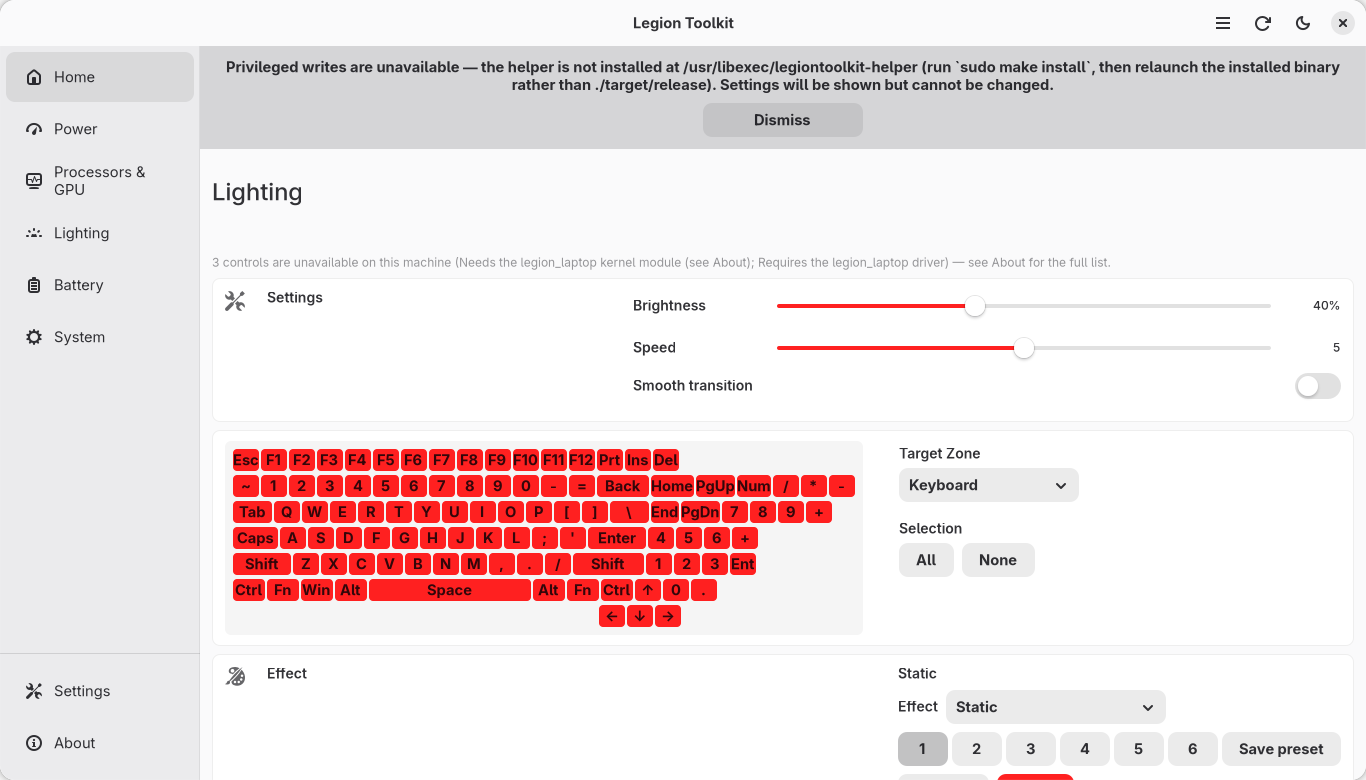
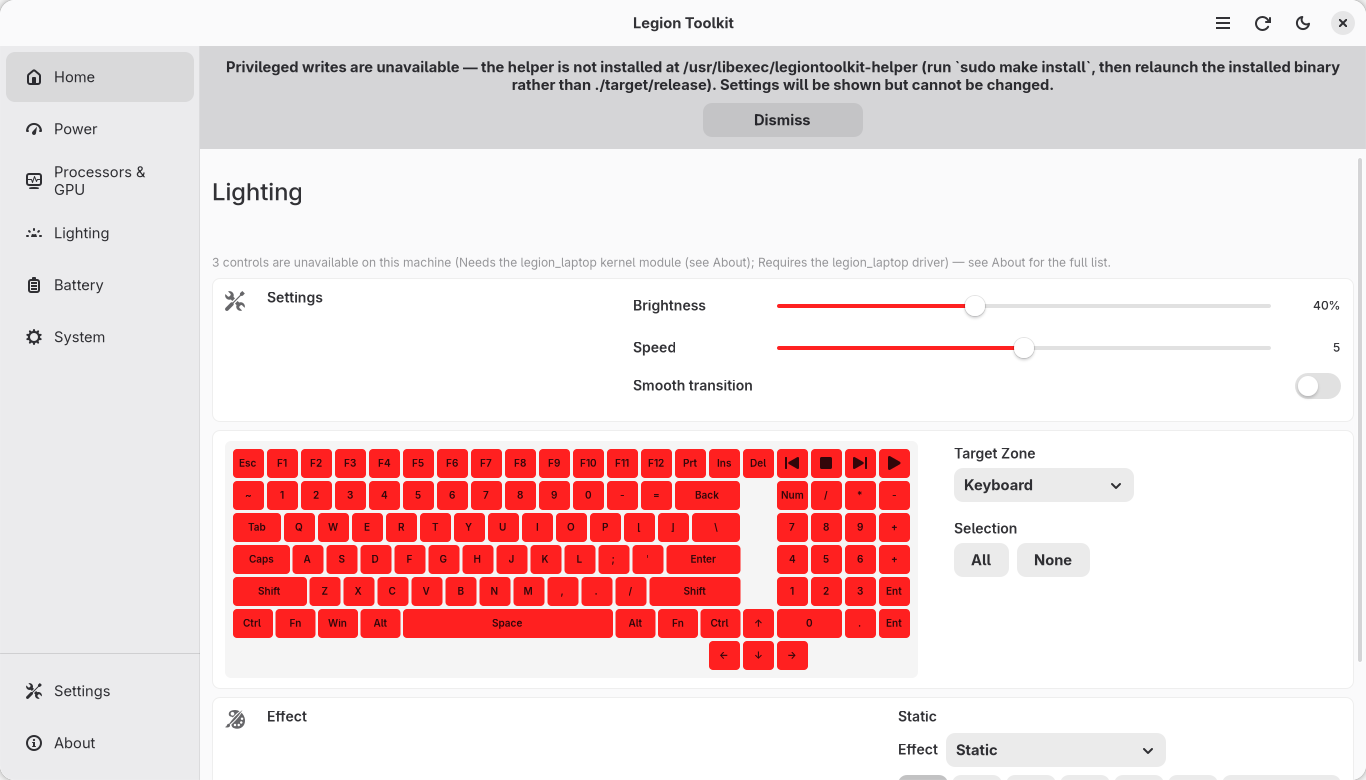
fix(lighting): lay the keyboard out on a fixed grid so it reads as one
The key rows were drawn as independent boxes, so each row's inter-key spacing
accumulated differently and the numeric keypad stair-stepped down the board.
Place every key at an absolute position instead, and size the layout so each
main block is exactly 15 units and the keypad always starts at 16 — the columns
now line up.

Follow the reference's keyboard more closely while here: a clean one-unit gap
between the main block and the keypad, the arrow keys in that gap, and the four
media keys above the keypad. Drop the Home/End/PgUp/PgDn cluster: the reference
laptop keyboard has no dedicated keys for them, and they crowded the gap.

diff --git a/src/rgb.rs b/src/rgb.rs
@@ -143,21 +143,29 @@ impl Effect {
 
 /// The physical keyboard, as rows of `(label, width in key units)`.
 ///
-/// A standard ANSI layout, following the reference's Keyboard Backlight page:
-/// the top row carries `Prt`/`Ins`/`Del`, a `Home`/`End`/`PgUp`/`PgDn`
-/// navigation cluster sits between the main block and the numeric keypad, and
-/// the arrow keys form an inverted-T under the right hand. Used only to draw the
-/// zone editor: it is the shape the user recognises, and it lets each zone be
-/// shown where it actually sits on the deck rather than as an abstract grid.
+/// A full ANSI layout, following the reference's Keyboard Backlight page: the
+/// top row carries `Prt`/`Ins`/`Del`, a clean one-unit gap separates the main
+/// block from the numeric keypad, and the arrow keys form an inverted-T in that
+/// gap under the right hand. Used only to draw the zone editor: it is the shape
+/// the user recognises, and it lets each zone be shown where it actually sits on
+/// the deck rather than as an abstract grid.
 ///
-/// A key whose label is empty is a **spacer**: a gap, not a key, used to line
-/// the short arrow row up under the rest of the keyboard.
+/// The layout is built so the keypad lands in the same columns on every row —
+/// that is what makes it read as a keyboard rather than a pile of keys. Every
+/// main-block row is exactly 15 units wide and the keypad always starts at 16,
+/// with a one-unit gap between them. A key whose label is empty is a **spacer**:
+/// a gap, not a key, that holds those columns open on the rows that do not reach
+/// them.
 ///
 /// The reference draws a 24-zone keyboard as 24 bars; drawing the whole
 /// keyboard and colouring each key by its zone is clearer, which is what we do.
+///
+/// A label beginning `icon:` names a symbolic icon to draw instead of text —
+/// used for the media keys on the function row, which have no short label.
 pub fn keyboard_rows() -> &'static [&'static [(&'static str, f64)]] {
     &[
-        // Function row, with the Print Screen / Insert / Delete group.
+        // Function row: Esc, F1..F12, Prt / Ins / Del, then the media keys
+        // sitting above the keypad. 20 units, matching the rows below.
         &[
             ("Esc", 1.0),
             ("F1", 1.0),
@@ -175,8 +183,12 @@ pub fn keyboard_rows() -> &'static [&'static [(&'static str, f64)]] {
             ("Prt", 1.0),
             ("Ins", 1.0),
             ("Del", 1.0),
+            ("icon:media-skip-backward-symbolic", 1.0),
+            ("icon:media-playback-stop-symbolic", 1.0),
+            ("icon:media-skip-forward-symbolic", 1.0),
+            ("icon:media-playback-start-symbolic", 1.0),
         ],
-        // Number row, the top of the navigation cluster, then the keypad top.
+        // Number row (15), gap (1), keypad top (4).
         &[
             ("~", 1.0),
             ("1", 1.0),
@@ -192,14 +204,13 @@ pub fn keyboard_rows() -> &'static [&'static [(&'static str, f64)]] {
             ("-", 1.0),
             ("=", 1.0),
             ("Back", 2.0),
-            ("Home", 1.0),
-            ("PgUp", 1.0),
+            ("", 1.0),
             ("Num", 1.0),
             ("/", 1.0),
             ("*", 1.0),
             ("-", 1.0),
         ],
-        // Tab row, the bottom of the navigation cluster, then keypad 7/8/9.
+        // Tab row (15), gap (1), keypad 7/8/9/+ (4).
         &[
             ("Tab", 1.5),
             ("Q", 1.0),
@@ -215,13 +226,13 @@ pub fn keyboard_rows() -> &'static [&'static [(&'static str, f64)]] {
             ("[", 1.0),
             ("]", 1.0),
             ("\\", 1.5),
-            ("End", 1.0),
-            ("PgDn", 1.0),
+            ("", 1.0),
             ("7", 1.0),
             ("8", 1.0),
             ("9", 1.0),
             ("+", 1.0),
         ],
+        // Caps row (15), gap (1), keypad 4/5/6/+ (4).
         &[
             ("Caps", 1.75),
             ("A", 1.0),
@@ -236,11 +247,13 @@ pub fn keyboard_rows() -> &'static [&'static [(&'static str, f64)]] {
             (";", 1.0),
             ("'", 1.0),
             ("Enter", 2.25),
+            ("", 1.0),
             ("4", 1.0),
             ("5", 1.0),
             ("6", 1.0),
             ("+", 1.0),
         ],
+        // Shift row (15), gap (1), keypad 1/2/3/Enter (4).
         &[
             ("Shift", 2.25),
             ("Z", 1.0),
@@ -254,12 +267,13 @@ pub fn keyboard_rows() -> &'static [&'static [(&'static str, f64)]] {
             (".", 1.0),
             ("/", 1.0),
             ("Shift", 2.75),
+            ("", 1.0),
             ("1", 1.0),
             ("2", 1.0),
             ("3", 1.0),
             ("Ent", 1.0),
         ],
-        // Bottom row, the up arrow, then the keypad's zero.
+        // Bottom row (15), the up arrow in the gap (1), then keypad 0 . Ent.
         &[
             ("Ctrl", 1.25),
             ("Fn", 1.25),
@@ -270,11 +284,11 @@ pub fn keyboard_rows() -> &'static [&'static [(&'static str, f64)]] {
             ("Fn", 1.25),
             ("Ctrl", 1.25),
             ("↑", 1.0),
-            ("0", 1.0),
+            ("0", 2.0),
             (".", 1.0),
+            ("Ent", 1.0),
         ],
-        // The arrow cluster's lower row, pushed right so ↓ sits under ↑. The
-        // leading spacer spans the keys that end above it in the row above.
+        // The arrow cluster's lower row, pushed right so ↓ sits under ↑.
         &[("", 14.0), ("←", 1.0), ("↓", 1.0), ("→", 1.0)],
     ]
 }

diff --git a/src/pages/mod.rs b/src/pages/mod.rs
@@ -1605,47 +1605,60 @@ fn rgb_section() -> Option<GtkBox> {
     let layout = GtkBox::new(Orientation::Horizontal, 24);
 
     // The controller addresses 24 regions rather than keys, so every key takes
-    // the colour of the region it lands in (see `rgb::zone_for_key`). Drawing a
-    // real keyboard is what makes the zones legible: you can see which keys a
-    // colour touches instead of counting abstract boxes.
-    let keyboard = gtk4::Grid::new();
+    // the colour of the region it lands in (see `rgb::zone_for_key`). Every key
+    // is placed at an absolute position: a row of boxes cannot keep the keypad's
+    // columns lined up, because each row's inter-key spacing accumulates
+    // differently. Absolute placement is what makes it read as a keyboard.
+    const KEY: f64 = 34.0;
+    const ROW_H: f64 = 32.0;
+    const GAP: f64 = 3.0;
+
+    let keyboard = gtk4::Fixed::new();
     keyboard.add_css_class("llt-keyboard");
-    keyboard.set_row_spacing(4);
-    keyboard.set_column_spacing(4);
     keyboard.set_halign(Align::Start);
     keyboard.set_valign(Align::Start);
 
+    let rows = legiontoolkit::rgb::keyboard_rows();
     let mut zone_keys: Vec<ZoneKey> = Vec::new();
-    for (row, keys) in legiontoolkit::rgb::keyboard_rows().iter().enumerate() {
-        let line = GtkBox::new(Orientation::Horizontal, 2);
-        line.set_halign(Align::Start);
+    for (row, keys) in rows.iter().enumerate() {
+        let mut x = 0.0;
         for (col, (label, width)) in keys.iter().enumerate() {
-            // An empty label is a spacer, not a key: the gap that lines the
-            // short arrow row up under the rest of the keyboard.
-            if label.is_empty() {
-                let gap = GtkBox::new(Orientation::Horizontal, 0);
-                gap.set_size_request((width * 26.0) as i32, 22);
-                line.append(&gap);
-                continue;
+            // An empty label is a spacer, not a key: it holds the columns open
+            // so the keypad lines up on every row.
+            if !label.is_empty() {
+                let zone = legiontoolkit::rgb::zone_for_key(row, col);
+                let button = match label.strip_prefix("icon:") {
+                    Some(icon) => gtk4::Button::from_icon_name(icon),
+                    None => gtk4::Button::with_label(label),
+                };
+                button.set_size_request(
+                    (width * KEY - GAP).round() as i32,
+                    (ROW_H - GAP).round() as i32,
+                );
+                button.set_focus_on_click(false);
+                let provider = gtk4::CssProvider::new();
+                provider.load_from_string(&key_colour_css(state.borrow().zones[zone]));
+                button.style_context().add_provider(&provider, 800);
+                keyboard.put(&button, x, row as f64 * ROW_H);
+                zone_keys.push(ZoneKey {
+                    row,
+                    col,
+                    zone,
+                    button,
+                    provider,
+                });
             }
-            let zone = legiontoolkit::rgb::zone_for_key(row, col);
-            let button = gtk4::Button::with_label(label);
-            button.set_size_request((width * 26.0) as i32, 22);
-            button.set_focus_on_click(false);
-            let provider = gtk4::CssProvider::new();
-            provider.load_from_string(&key_colour_css(state.borrow().zones[zone]));
-            button.style_context().add_provider(&provider, 800);
-            line.append(&button);
-            zone_keys.push(ZoneKey {
-                row,
-                col,
-                zone,
-                button,
-                provider,
-            });
+            x += width * KEY;
         }
-        keyboard.attach(&line, 0, row as i32, 1, 1);
     }
+    let width = rows
+        .iter()
+        .map(|keys| keys.iter().map(|(_, w)| *w).sum::<f64>())
+        .fold(0.0, f64::max);
+    keyboard.set_size_request(
+        (width * KEY).round() as i32,
+        (rows.len() as f64 * ROW_H).round() as i32,
+    );
     let zone_keys = Rc::new(zone_keys);
 
     // Picking a colour on a key applies it to every zone the current Target

diff --git a/src/design/mod.rs b/src/design/mod.rs
@@ -106,11 +106,17 @@ pub const STYLE_CSS: &str = r#"
 }
 
 /* The 24-zone keyboard shape on the Lighting page: a framed panel with the
-   zone rows staggered inside it, so it reads as a keyboard. */
+   keys placed on a fixed grid, so the keypad columns line up down the board. */
 .llt-keyboard {
     background-color: alpha(currentColor, 0.05);
     border-radius: 6px;
     padding: 8px;
+}
+
+/* Key labels, small enough that multi-letter names (Enter, Shift, Num) fit. */
+.llt-keyboard button {
+    font-size: 10px;
+    font-weight: 600;
 }
 
 /* The reference's data bars are blue even though its brand accent is red: the
